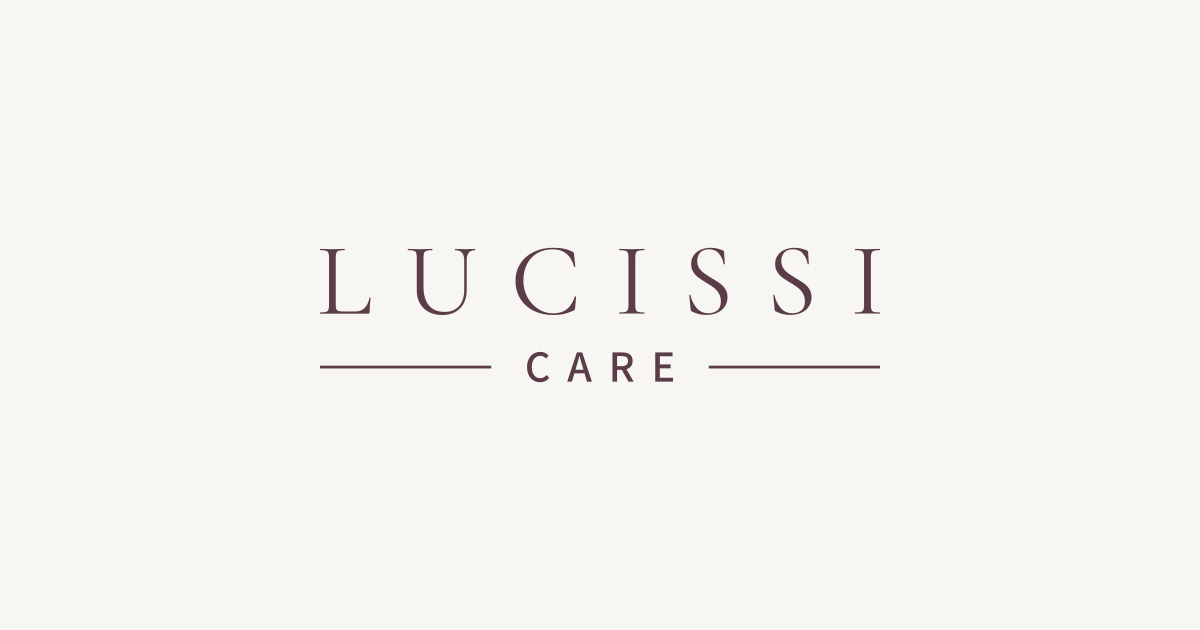
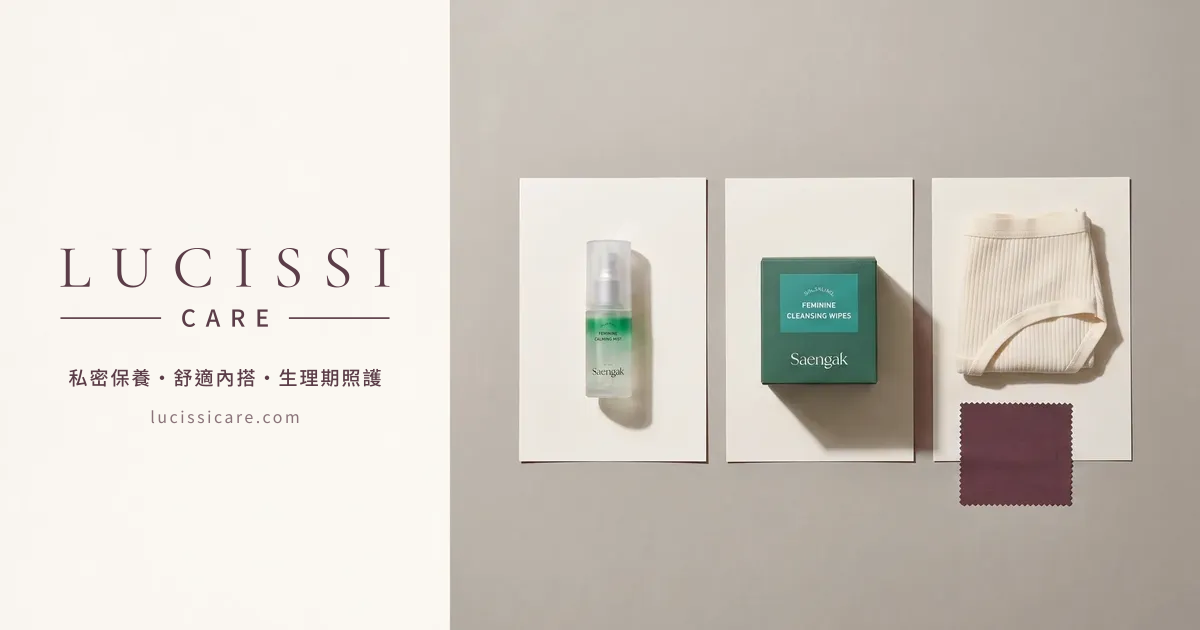
feat: replace default share image with brand photo and wordmark
The old og-image.png was the wordmark alone on ivory. The new one uses
the home-brand photo with the Primary wordmark, the series line and the
site address on its ivory side. Same path and size, so no code changes.
scripts/build-og-image.mjs regenerates it once the final wordmark lands.

diff --git a/docs/PROJECT_MEMORY.md b/docs/PROJECT_MEMORY.md
@@ -189,7 +189,7 @@
 - `vercel.json` 將 `saengak.com.tw` 與 `www.saengak.com.tw` 一般頁面永久轉址至新網域；排除 `/api`、`/auth/confirm`、`/reset-password`，以保留服務回呼。修改時須一起檢查相關測試、CSP、Origin 白名單、sitemap 與 robots。
 
 - **子品牌定位（2026-10-17 使用者確認，同日收斂）**：LUCISSI CARE 是「LUCISSI 的日常照護系列」，主張「貼近身體的日常照護」。導覽為私密保養、舒適內搭兩個核心面向，加跨分類的「生理期照護」；身體保養商品併入私密保養，運動內衣併入舒適內搭，肌膚保養與輕盈運動不做分類（理由：沒有或只有 1 件商品、母站 lucissi.com 已有對應分類、台灣臉部保養與女性運動服市場擁擠、PIF 自 2026-07-01 全面實施）。設定集中在 `src/content/carePillars.ts`。不承接情趣與性健康品類。重新加回面向的條件：至少 6–8 件非母站同款商品、能用貼身照護說清楚的角度、化粧品已完成 PIF。會員互通第 1 階段：CARE 端已於 2026-10-18 上線並以實單驗證（兩站 migration、Vercel 環境變數、Shopify 權限完成；測試單 #1009 免運生效後代碼結算為 `used`，已取消退款；CARE 前台領取卡片已開，詳見 `docs/PROJECT_STATUS.md`）；母站權益 `CARE_MEMBER_PERK_ENABLED` 已於 2026-10-18 開啟；「首單未用代碼 → `expired`」分支已於 2026-10-18 以主帳號測試單 #1010 驗證（折扣已停用、已取消退款；#1010 的 ShipAny 端當時待確認，2026-10-20 已有「訂單取消」回讀紀錄（見物流上線清單）；#1009 在 ShipAny 端已確認取消）。Calm Care 色票已於 2026-10-18 套用（`blush`／`ivory` 名稱保留、值為 `stone`／`porcelain`，信任色 `eucalyptus`，粉色只留 `rose-tint`；規範見設計系統「色彩重新定位」）。現有 v5 攝影已於 2026-10-18 以 `scripts/regrade-brand-photos.mjs` 重新調色為暖灰米（新增照片也應以同一腳本處理或直接拍中性背景）。母站品類分工已於 2026-10-17 同意（見下方母站段落）。
-- **Logo（2026-10-17）**：已選定方向 A「家族字標」（LUCISSI 沿用母站 Cormorant Garamond 400、字距 0.32em，下方細線夾 CARE，單色 plum #5B3D48）。規格與設計師需求在設計系統 artifact（https://claude.ai/artifact/LuJEPWJzPNbHwEe5UgDaKp）；設計師 SVG 交付前，網站改用依規格以 OFL 字型（Cormorant Garamond 400、Noto Sans TC 500）轉外框的暫用字標：`src/components/base/brandLogoPaths.ts`（small／primary／horizontal）、`public/images/brand/lucissi-care-*.svg`、`public/favicon.svg`、`favicon-32x32.png`、`apple-touch-icon.png`（180px）與 Open Graph 分享圖 `public/images/brand/og-image.png`（1200×630，ivory 底、Primary 置中，`index.html` 已設 og／twitter 標籤）；舊 PNG 已移除。正式 SVG 到位後只需替換路徑資料。
+- **Logo（2026-10-17）**：已選定方向 A「家族字標」（LUCISSI 沿用母站 Cormorant Garamond 400、字距 0.32em，下方細線夾 CARE，單色 plum #5B3D48）。規格與設計師需求在設計系統 artifact（https://claude.ai/artifact/LuJEPWJzPNbHwEe5UgDaKp）；設計師 SVG 交付前，網站改用依規格以 OFL 字型（Cormorant Garamond 400、Noto Sans TC 500）轉外框的暫用字標：`src/components/base/brandLogoPaths.ts`（small／primary／horizontal）、`public/images/brand/lucissi-care-*.svg`、`public/favicon.svg`、`favicon-32x32.png`、`apple-touch-icon.png`（180px）與 Open Graph 分享圖 `public/images/brand/og-image.png`（1200×630；2026-11-19 起由 `scripts/build-og-image.mjs` 以 `home-brand.webp` 加左側 Primary 字標與系列說明產生，`index.html` 已設 og／twitter 標籤）；舊 PNG 已移除。正式 SVG 到位後只需替換路徑資料，並重跑 `node scripts/build-og-image.mjs`。
 
 - **母站 lucissi.com（2026-10-17 唯讀檢視 `~/Documents/GitHub/LUCISSI_website`）**：與本站完全分開——Shopify `j97kr5-7b`、Supabase `dhktmpcvtoxcicqkwgpn`、Vercel `lucissi-website`；會員以 Supabase Auth 為準（程式中保留已關閉的 Shopify 客戶帳號登入，正式站實際使用哪一套未驗證）；點數／等級已寫好但未啟用，且綁 LUCISSI 的 Shopify 客戶編號；免運滿 NT$1,500、運費 NT$146。母站程式與測試刻意拒絕使用本站的商店與資料庫。兩站同屬拜悠衣品有限公司。使用者已同意品類分工（照護化粧品只在 CARE；機能貼身衣物可兩站並列、CARE 為主；性感款只在母站；CARE 品名不用「性感」），並決定需要會員互通、互認對象只限 lucissi.com 官網會員（蝦皮買家不含）。建議分階段（Email 權益互認 → 以 LUCISSI 帳號登入 → 共用點數），不合併資料庫或商店；第 1 階段權益已決定為雙向首單免運（CARE 端見 `docs/LUCISSI_MEMBER_PARTNER_API.md`），母站「女性護理私密凝膠」改為連到 CARE。細節見設計系統「母站分工與會員互通」。
 
